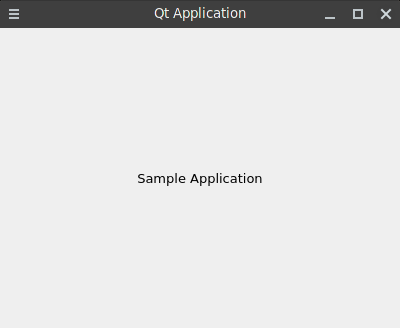
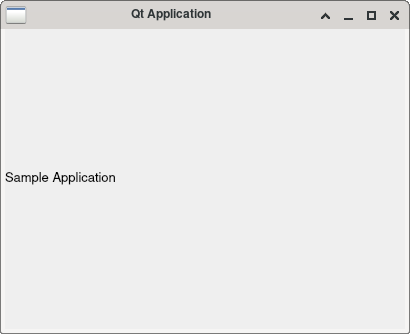
qt incorrect screenshot fixed, vim aliases fixed

Changed region(s): [[0.0, 0.0, 1.0, 1.0], [0.33, 0.5183, 0.66, 0.5793], [0.0, 0.4878, 0.3, 0.5488]]

diff --git a/html-files/1.8.1.4.0.html b/html-files/1.8.1.4.0.html
@@ -13,7 +13,7 @@
 <!-- ajax -->
 <link rel='stylesheet' href='https://cdnjs.cloudflare.com/ajax/libs/prism/1.22.0/themes/prism-tomorrow.min.css'>
 
-<title>Milestone Practices</title>
+<title>Motions</title>
 <style>
 a,
 a:hover,
@@ -174,17 +174,18 @@ button.list-group-item:hover {
 <li class="breadcrumb-item"><a title="Shortcut: ALT + SHIFT + 2" accesskey="2" href="/1.0.html">Linux Administration</a></li>
 <li class="breadcrumb-item"><a title="Shortcut: ALT + SHIFT + 3" accesskey="3" href="/1.8.0.html">Editors</a></li>
 <li class="breadcrumb-item"><a title="Shortcut: ALT + SHIFT + 4" accesskey="4" href="/1.8.1.0.html">Vim</a></li>
-<li class="breadcrumb-item active" >...</li>
+<li class="breadcrumb-item active" >Motions</li>
 </ol>
+<h2>Motions</h2>
 <ul class="pager">
 <li class="previous"><a title="Shortcut: ALT + SHIFT + B" accesskey="B" href="/linux/editors/vim/operators/custom-operators">previous page</a></li>
 <li class="top"><a title="Shortcut: ALT + SHIFT + T" accesskey="T" href="/">top page</a></li>
-<li class="next"><a title="Shortcut: ALT + SHIFT + F" accesskey="F" href="/1.8.1.4.1.html">next page</a></li>
+<li class="next"><a title="Shortcut: ALT + SHIFT + F" accesskey="F" href="/linux/editors/vim/motions/custom-motions">next page</a></li>
 </ul>
 <hr />
 <h3>Table of Content</h3>
 <div class="list-group list-group-root well" >
-<a href="/1.8.1.4.1.html" class="list-group-item">
+<a href="/linux/editors/vim/motions/custom-motions" class="list-group-item">
 	1. Custom Motions
 	
 </a>

diff --git a/html-files/1.8.1.4.1.html b/html-files/1.8.1.4.1.html
@@ -111,7 +111,7 @@ pre {
 <li class="breadcrumb-item"><a title="Shortcut: ALT + SHIFT + 2" accesskey="2" href="/1.0.html">Linux Administration</a></li>
 <li class="breadcrumb-item"><a title="Shortcut: ALT + SHIFT + 3" accesskey="3" href="/1.8.0.html">Editors</a></li>
 <li class="breadcrumb-item"><a title="Shortcut: ALT + SHIFT + 4" accesskey="4" href="/1.8.1.0.html">Vim</a></li>
-<li class="breadcrumb-item"><a title="Shortcut: ALT + SHIFT + 5" accesskey="5" href="/1.8.1.4.0.html">...</a></li>
+<li class="breadcrumb-item"><a title="Shortcut: ALT + SHIFT + 5" accesskey="5" href="/1.8.1.4.0.html">Motions</a></li>
 <li class="breadcrumb-item active" >Custom Motions</li>
 </ol>
 <h2>Custom Motions</h2>
@@ -138,7 +138,7 @@ plugins installed, we could use them together. Running <mark>gcae</mark> would
 toggle commenting throughout the current file.<br />
 </div>
 <ul class="pager">
-<li class="previous"><a title="Shortcut: ALT + SHIFT + B" accesskey="B" href="/1.8.1.4.0.html">previous page</a></li>
+<li class="previous"><a title="Shortcut: ALT + SHIFT + B" accesskey="B" href="/linux/editors/vim/motions">previous page</a></li>
 <li class="top"><a title="Shortcut: ALT + SHIFT + T" accesskey="T" href="/">top page</a></li>
 <li class="next"><a title="Shortcut: ALT + SHIFT + F" accesskey="F" href="/development-tools">next page</a></li>
 </ul>

diff --git a/html-files/1.8.1.3.6.html b/html-files/1.8.1.3.6.html
@@ -139,7 +139,7 @@ It's an operator command, so we can combine it with all of the usual motions.<br
 <ul class="pager">
 <li class="previous"><a title="Shortcut: ALT + SHIFT + B" accesskey="B" href="/linux/editors/vim/operators/arithmetic">previous page</a></li>
 <li class="top"><a title="Shortcut: ALT + SHIFT + T" accesskey="T" href="/">top page</a></li>
-<li class="next"><a title="Shortcut: ALT + SHIFT + F" accesskey="F" href="/1.8.1.4.0.html">next page</a></li>
+<li class="next"><a title="Shortcut: ALT + SHIFT + F" accesskey="F" href="/linux/editors/vim/motions">next page</a></li>
 </ul>
 <!-- jquery -->
 <script src="https://code.jquery.com/jquery-3.5.1.slim.min.js" integrity="sha384-DfXdz2htPH0lsSSs5nCTpuj/zy4C+OGpamoFVy38MVBnE+IbbVYUew+OrCXaRkfj" crossorigin="anonymous"></script>

diff --git a/html-files/2.0.html b/html-files/2.0.html
@@ -179,7 +179,7 @@ This chapter contains many development essential tools which every programmer
 might need in their career.<br />
 </div>
 <ul class="pager">
-<li class="previous"><a title="Shortcut: ALT + SHIFT + B" accesskey="B" href="/1.8.1.4.1.html">previous page</a></li>
+<li class="previous"><a title="Shortcut: ALT + SHIFT + B" accesskey="B" href="/linux/editors/vim/motions/custom-motions">previous page</a></li>
 <li class="top"><a title="Shortcut: ALT + SHIFT + T" accesskey="T" href="/">top page</a></li>
 <li class="next"><a title="Shortcut: ALT + SHIFT + F" accesskey="F" href="/development-tools/git">next page</a></li>
 </ul>

diff --git a/html-files/6.8.2.1.html b/html-files/6.8.2.1.html
@@ -149,8 +149,7 @@ We subclass QMainWindow because we need to illustrate the menu and toolbars.<br 
     	setWindowTitle(&quot;Qt Application&quot;);
     	resize(400, 300);
     
-    	QLabel *mainWidget = new QLabel(&quot;Sample Application&quot;);
-    	mainWidget-&gt;setAlignment(Qt::AlignCenter);
+    	mainWidget = new QLabel(&quot;Sample Application&quot;);
     
     	setCentralWidget(mainWidget);
     };
@@ -170,6 +169,9 @@ We subclass QMainWindow because we need to illustrate the menu and toolbars.<br 
     
     public:
     	MainWindow();
+    
+    private:
+    	QWidget *mainWidget;
     };
     
     #endif

diff --git a/html-files/1.8.0.html b/html-files/1.8.0.html
@@ -281,12 +281,12 @@ Here you will review popular editors like Nano, Vim and Emacs.<br />
 	
 </a>
 </div>
-<a href="/1.8.1.4.0.html" class="list-group-item group-child">
-	4. 
+<a href="/linux/editors/vim/motions" class="list-group-item group-child">
+	4. Motions
 	<span class="badge badge-primary badge-pill">1</span>
 </a>
 <div class="list-group collapse" id="1-8-1-4-0">
-<a href="/1.8.1.4.1.html" class="list-group-item group-child">
+<a href="/linux/editors/vim/motions/custom-motions" class="list-group-item group-child">
 	1. Custom Motions
 	
 </a>

diff --git a/html-files/1.8.1.0.html b/html-files/1.8.1.0.html
@@ -275,11 +275,11 @@ button.list-group-item:hover {
 </a>
 </div>
 <a href="#1-8-1-4-0" class="list-group-item" data-toggle="collapse">
-	<i class="glyphicon glyphicon-chevron-right"></i>4. 
+	<i class="glyphicon glyphicon-chevron-right"></i>4. Motions
 	<span class="badge badge-primary badge-pill">1</span>
 </a>
 <div class="list-group collapse" id="1-8-1-4-0">
-<a href="/1.8.1.4.1.html" class="list-group-item group-child">
+<a href="/linux/editors/vim/motions/custom-motions" class="list-group-item group-child">
 	1. Custom Motions
 	
 </a>

diff --git a/html-files/6.8.0.html b/html-files/6.8.0.html
@@ -177,7 +177,6 @@ button.list-group-item:hover {
 <h2>Graphical User Interface</h2>
 <div class="comment-style" >
 This section holds essential parts of Qt framework to practice.<br />
-None of the practices will have output due to the nature of their executaion.<br />
 Try to write code by yourself and see the results.<br />
 </div>
 <ul class="pager">

diff --git a/cxx/gui/windows/mainwindow.hpp b/cxx/gui/windows/mainwindow.hpp
@@ -9,6 +9,9 @@ class MainWindow : public QMainWindow {
 
 public:
 	MainWindow();
+
+private:
+	QWidget *mainWidget;
 };
 
 #endif
